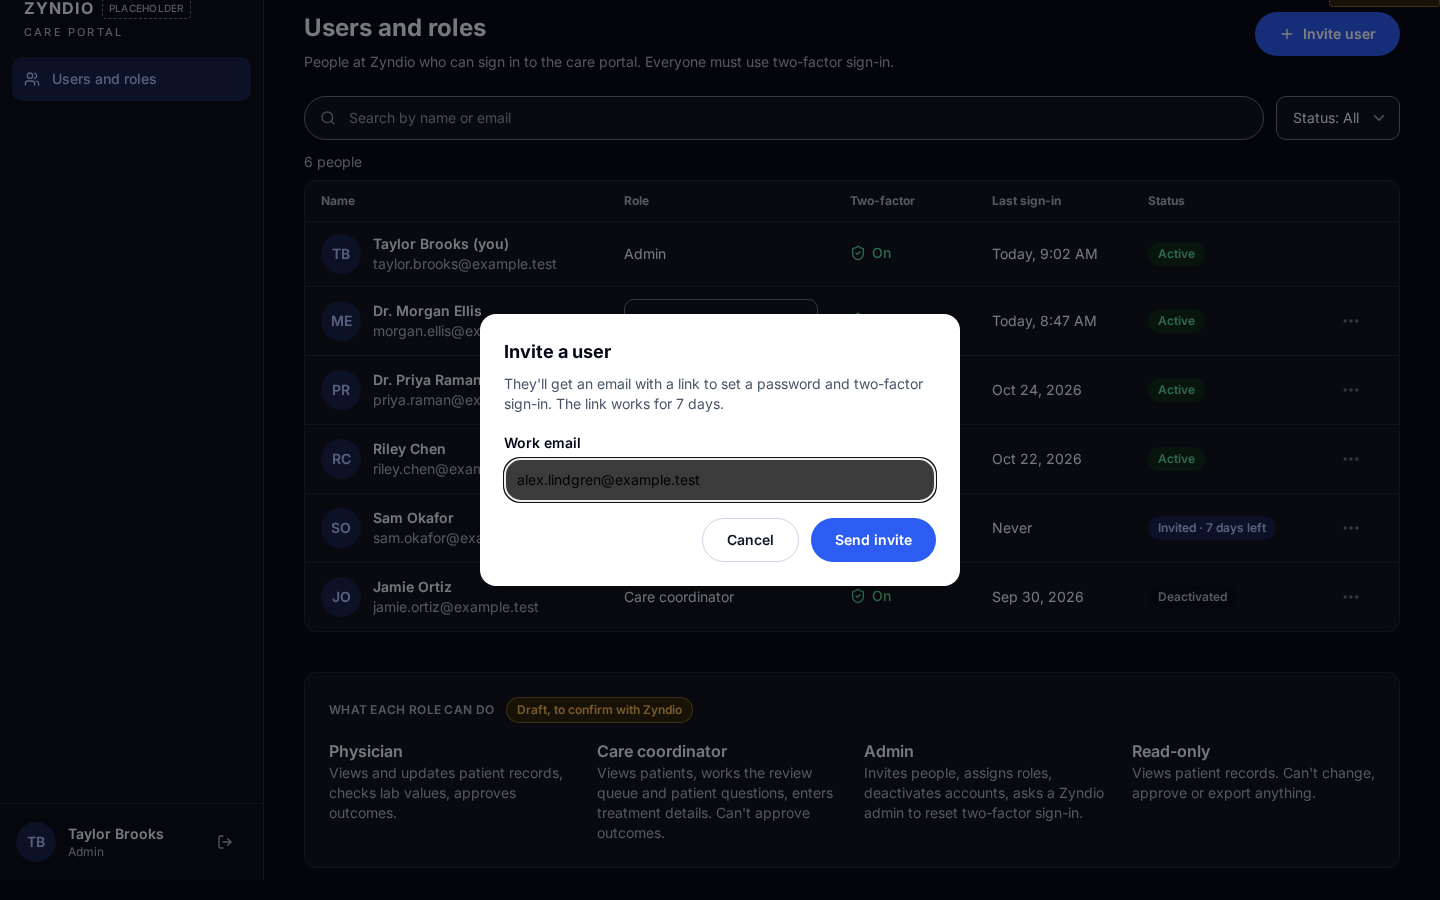
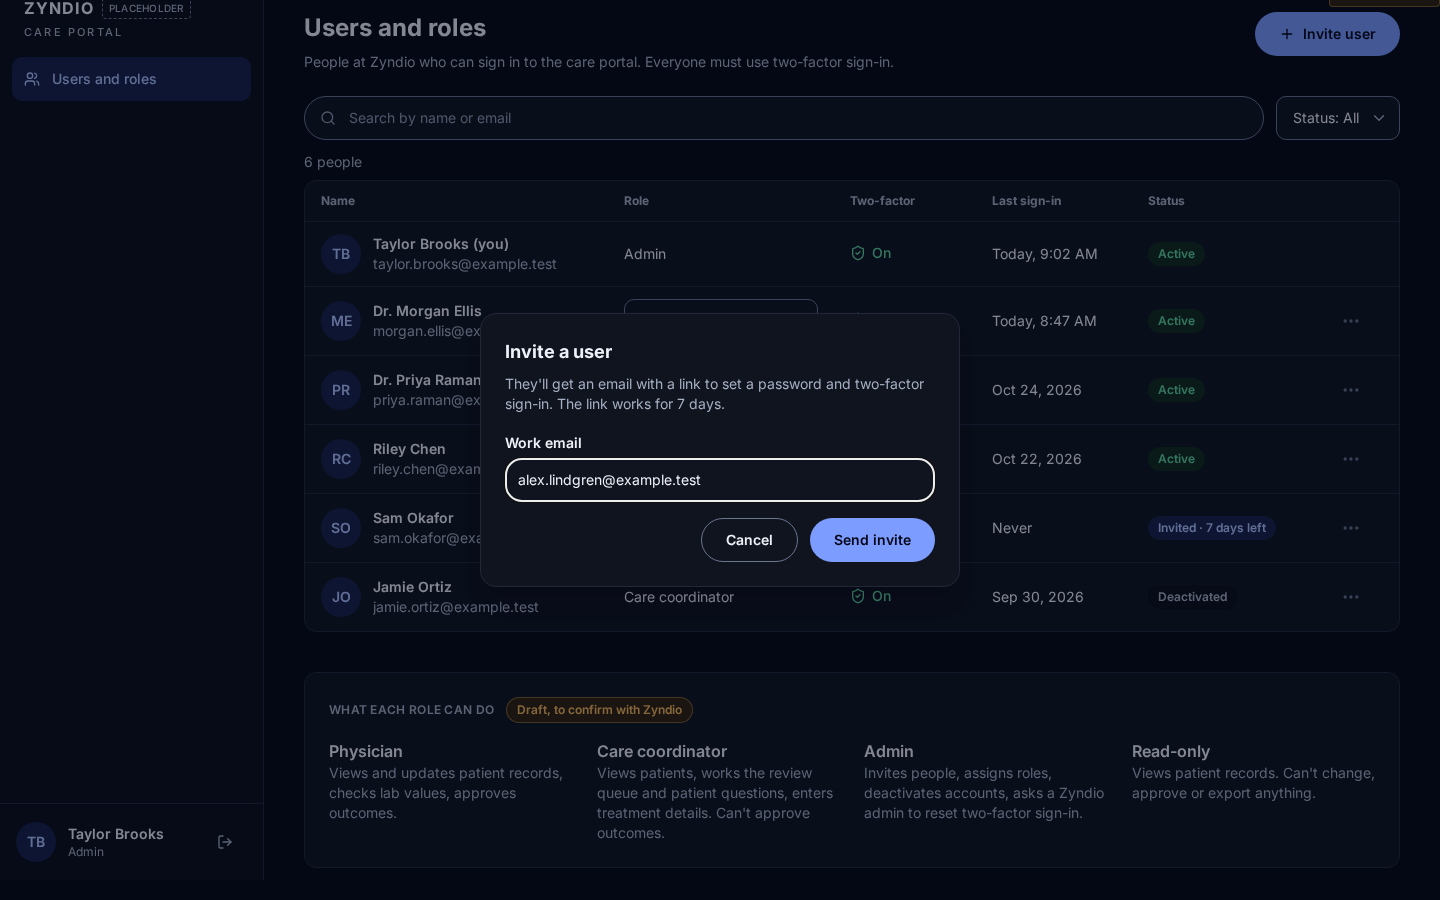
chore(tc-013): re-shoot Users & roles after dialog dark tokens
Wait for Tailwind CDN dark surface rules before capture so dialog buttons
aren't shot mid-theme. Rebuild light/dark screenshots for the themed dialogs.

Changed region(s): [[0.3125, 0.3422, 0.6875, 0.6533], [0.875, 0.0, 0.9688, 0.0622]]

diff --git a/scripts/demo_screenshots_admin.py b/scripts/demo_screenshots_admin.py
@@ -111,6 +111,24 @@ def capture(screens: list[str] | None, states: list[str] | None) -> list[Path]:
                         url = f"{base_url}#/__preview?screen={screen}&state={state}&mode={mode}"
                         page.goto(url, wait_until="domcontentloaded")
                         page.wait_for_selector("[data-preview-marker]", timeout=10_000)
+                        # Tailwind CDN generates dark: utilities after hydration;
+                        # wait until a known dark surface rule exists so dialogs
+                        # and buttons aren't shot mid-theme.
+                        if mode == "dark":
+                            page.wait_for_function(
+                                """() => {
+                                  for (const sheet of document.styleSheets) {
+                                    let rules;
+                                    try { rules = sheet.cssRules; } catch (e) { continue; }
+                                    for (const r of rules) {
+                                      if ((r.cssText || "").includes("10141F")) return true;
+                                    }
+                                  }
+                                  return false;
+                                }""",
+                                timeout=10_000,
+                            )
+                            page.wait_for_timeout(150)
                         out_path = screen_dir / f"{state}--{mode}.png"
                         page.screenshot(path=str(out_path))
                         written.append(out_path)
